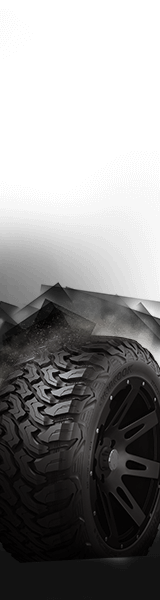
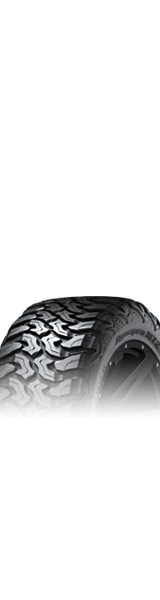
Updated 300x250, 160x600 and 728x90 with updated creative based on comments from the Hankook senior exexecutive

diff --git a/InnOcean/hankook-mlb-022020/728x90/style.css b/InnOcean/hankook-mlb-022020/728x90/style.css
@@ -33,6 +33,7 @@ img {
 .background {
   opacity: 0;
   transform: scale(1.2);
+  left: -5px;
 }
 
 .revealTire {
@@ -43,14 +44,24 @@ img {
   opacity: 0;
   transform: scale(1.2);  
   transform-origin: 300px 88px;
+  left: -5px;
 }
 
 .reveal {
   animation: reveal 0.5s forwards;
 }
 
-.lockup, .gradient {
+.lockup {
   opacity: 0;
+  left: -5px;
+}
+
+.dust {
+  mix-blend-mode: screen;
+  opacity: 0;
+  transform: scale(1.2);  
+  transform-origin: 300px 88px;
+  left: -5px;
 }
 
 .slash {
@@ -93,13 +104,10 @@ img {
 
 @keyframes revealContent {
   0% { clip-path: polygon(52.5% 0%, 53% 0%, 49% 100%, 48.5% 100%); } 
-  100% { clip-path: polygon(0% 0%, 53% 0%, 49% 100%, -20% 100%); }
+  100% { clip-path: polygon(0% 0%, 63% 0%, 59% 100%, -20% 100%); }
 
   0% { -webkit-clip-path: polygon(52.5% 0%, 53% 0%, 49% 100%, 48.5% 100%); } 
-  100% { -webkit-clip-path: polygon(0% 0%, 53% 0%, 49% 100%, -20% 100%); }
-
-  0% { -ms-clip-path: polygon(52.5% 0%, 53% 0%, 49% 100%, 48.5% 100%); } 
-  100% { -ms-clip-path: polygon(0% 0%, 53% 0%, 49% 100%, -20% 100%); }
+  100% { -webkit-clip-path: polygon(0% 0%, 63% 0%, 59% 100%, -20% 100%); }
 }
 
 @keyframes revealBackgroundImage {

diff --git a/InnOcean/hankook-mlb-022020/728x90/scripts.js b/InnOcean/hankook-mlb-022020/728x90/scripts.js
@@ -7,9 +7,9 @@ io.animations = (function() {
   var slash = document.querySelector('.slash');
   const image = document.querySelector('.background');
   const tire = document.querySelector('.tire');
-  const gradient = document.querySelector('.gradient');
   const lockup = document.querySelector('.lockup');
   const backup = document.querySelector('.backup');
+  const dust = document.querySelector('.dust');
 
   onStart();
 
@@ -22,8 +22,8 @@ io.animations = (function() {
   function frame1() {
     setTimeout(function () { 
       image.classList.add('revealBackgroundImage');
-      gradient.classList.add('reveal')
       tire.classList.add('revealTire');
+      dust.classList.add('revealTire');
       container.classList.add('revealContent');
     }, 1000);
     endFrame();

diff --git a/InnOcean/hankook-mlb-022020/160x600/scripts.js b/InnOcean/hankook-mlb-022020/160x600/scripts.js
@@ -10,6 +10,7 @@ io.animations = (function() {
   const gradient = document.querySelector('.gradient');
   const lockup = document.querySelector('.lockup');
   const backup = document.querySelector('.backup');
+  const dust = document.querySelector('.dust');
 
   onStart();
 
@@ -24,6 +25,7 @@ io.animations = (function() {
       image.classList.add('revealBackgroundImage');
       gradient.classList.add('reveal')
       tire.classList.add('revealTire');
+      dust.classList.add('revealTire');
       container.classList.add('revealContent');
     }, 1000);
     endFrame();

diff --git a/InnOcean/hankook-mlb-022020/160x600/style.css b/InnOcean/hankook-mlb-022020/160x600/style.css
@@ -44,16 +44,22 @@ img {
 .background {
   opacity: 0;
   transform: scale(1.2);
+  left: -5px;
 }
 
 .revealTire {
   animation: revealTire 5s forwards;
 }
 
-.tire {
+.tire, .dust {
   opacity: 0;
   transform: scale(1.2);  
   transform-origin: 149px 450px;
+  left: -5px;
+}
+
+.dust {
+  mix-blend-mode: screen;
 }
 
 .reveal {
@@ -66,6 +72,10 @@ img {
 
 .lockup, .gradient {
   opacity: 0;
+}
+
+.gradient {
+  left: -5px;
 }
 
 .backup {

diff --git a/InnOcean/hankook-mlb-022020/300x250/style.css b/InnOcean/hankook-mlb-022020/300x250/style.css
@@ -33,6 +33,7 @@ img {
 .background {
   opacity: 0;
   transform: scale(1.2);
+  left: -6px;
 }
 
 .revealTire, .revealDust {
@@ -43,10 +44,12 @@ img {
   opacity: 0;
   transform: scale(1.2);  
   transform-origin: 250px 260px;
+  left: -6px;
 }
 
 .dust {
-  mix-blend-mode: lighten;
+  mix-blend-mode: screen;
+  left: -6px;
 }
 
 .reveal {
@@ -55,6 +58,7 @@ img {
 
 .lockup, .gradient {
   opacity: 0;
+  left: -6px;
 }
 
 .slash {

diff --git a/InnOcean/hankook-mlb-022020/728x90/index.html b/InnOcean/hankook-mlb-022020/728x90/index.html
@@ -12,8 +12,8 @@
       <div class="container" >
         <div class="slash">
             <img class="background" src="./background.jpg" />
-            <img class="gradient" src="./gradient.png" />
             <img class="tire" src="./tire.png" />
+            <img class="dust" src="./dust.png" />
         </div>
       </div>
       <img class="lockup" src="./lockup.png" />

diff --git a/InnOcean/hankook-mlb-022020/160x600/index.html b/InnOcean/hankook-mlb-022020/160x600/index.html
@@ -14,6 +14,7 @@
             <img class="background" src="./background.jpg" />
             <img class="gradient" src="./gradient.png" />
             <img class="tire" src="./tire.png" />
+            <img class="dust" src="./dust.png" />
             <img class="lockup" src="./lockup.png" />
         </div>
       </div>
